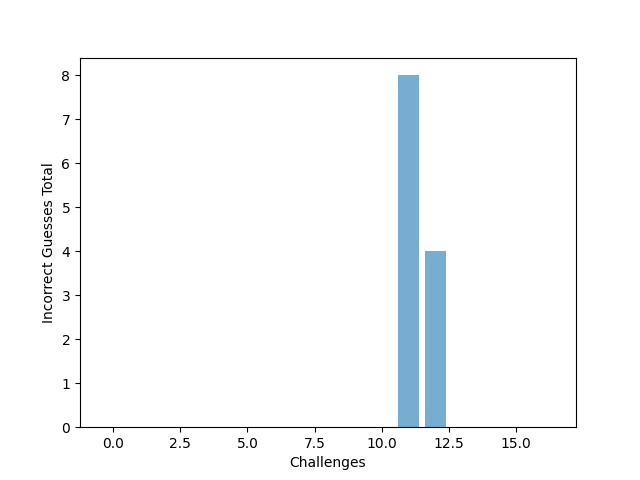
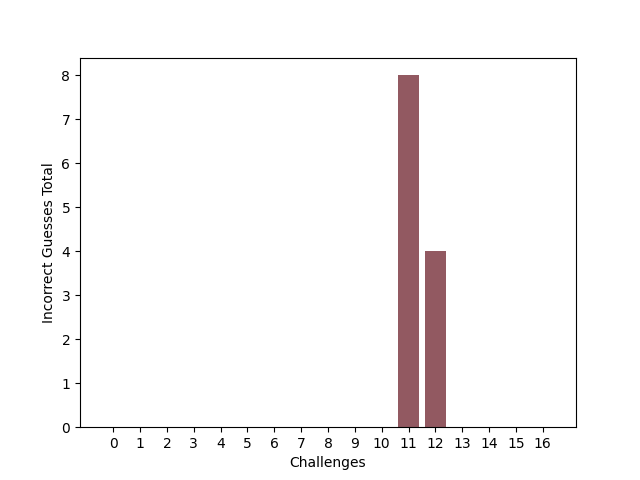
Working on custom Admin page a bit more

diff --git a/customAdmin/templates/customAdmin/index.html b/customAdmin/templates/customAdmin/index.html
@@ -41,10 +41,17 @@
                 {% if allChallenges %}
                 
                 <div class="challengeContainer">
+                    <div class="challenges">
                     {% for challenge in allChallenges %}
-                        <div> Challenge {{ challenge.order }} {{ challenge.totalIncorrectGuesses }} </div>
+                    <div class="individualChallenge"> 
+                        <div> Challenge {{ challenge.order }} </div>
+                        <div class="incorrectGuesses"> Total Incorrect Guesses: {{ challenge.totalIncorrectGuesses }}  </div>
+                    </div>
                     {% endfor %}
-                    <img src="{% static 'customAdmin/incorrectGuesses.png' %}" />
+                    </div>
+                    <div class="graphData">
+                        <img src="{% static 'customAdmin/incorrectGuesses.png' %}" />
+                    </div>
                 </div>
 
                 {% endif %}

diff --git a/customAdmin/static/customAdmin/adminStyle.css b/customAdmin/static/customAdmin/adminStyle.css
@@ -1,6 +1,5 @@
 #changeDate {
-    margin-top: 16px;
-    margin-bottom: 16px;
+    margin-top: 8px;
     text-align: center;
 }
 
@@ -27,27 +26,46 @@
 
 .padded {
     margin-top: 16px;
-    margin-bottom: 16px;
-    
-
+    margin-bottom: 8px;
 }
 
 .dueDates {
     font-size: 24px;
     font-weight: bold;
     text-align: center;
-    margin-bottom: 48px;
+    margin-bottom: 24px;
     margin-top: 24px; 
 
 }
 
 .challengeContainer {
-    text-align: center;
+    display: flex;
+    justify-content: space-between;
 }
 
+.challenges {
+    flex: 60%;
+    margin-left: 16px;
+    margin-top: 48px;
+}
+
+.graphData {
+    flex: 40%;
+}
+
+.individualChallenge {
+    padding: 16px;
+    text-align: center;
+    margin: 4px;
+    border-radius: 4px;
+    background-color: #45A29E;
+    box-shadow: 0 2px 4px 0 #0B0c10;
+    display: inline-block;
+    color: #1F2833;
+}
+
+.incorrectGuesses {
+    color: #66FCF1;
 
 
-
-
-
-
+}

diff --git a/customAdmin/views.py b/customAdmin/views.py
@@ -17,17 +17,18 @@ def index(request):
 
     if (request.user.is_superuser):
         allChallenges = Challenge.objects.all().order_by('-totalIncorrectGuesses')
+        allChallengesNoOrder = Challenge.objects.all()
 
         incorrectGuesses = []
         orderChallenges = []
 
-        for challenge in allChallenges:
+        for challenge in allChallengesNoOrder:
             incorrectGuesses.append(challenge.totalIncorrectGuesses)
-            orderChallenges.append(challenge.order)
+            orderChallenges.append(str(challenge.order))
 
-        plt.bar(orderChallenges, incorrectGuesses, align='center', alpha=0.6)
         plt.xlabel('Challenges')
         plt.ylabel('Incorrect Guesses Total')
+        plt.bar(orderChallenges, incorrectGuesses, align='center', alpha=0.6)
         plt.savefig('customAdmin/static/customAdmin/incorrectGuesses.png')
 
         return render(request, 'customAdmin/index.html', {'dates': dates, 'allChallenges': allChallenges})
